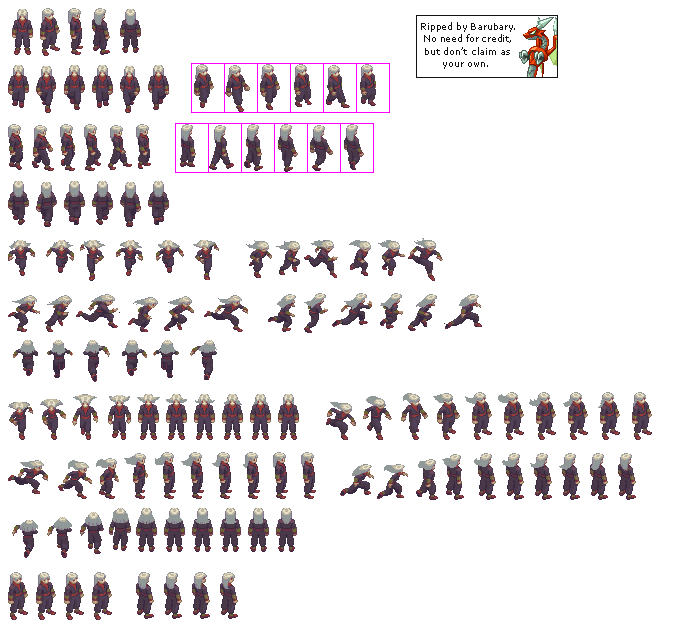
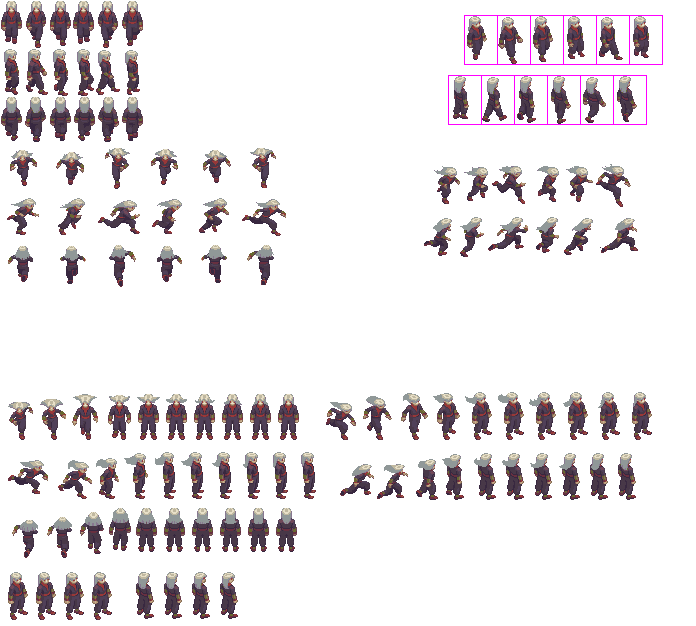
Move/Run

Changed region(s): [[0.0, 0.0, 0.9353, 0.607], [0.6034, 0.0, 0.9353, 0.2125]]

diff --git a/DesingPatternsGame/DesingPatternsGame/StrategyGame.cs b/DesingPatternsGame/DesingPatternsGame/StrategyGame.cs
@@ -100,12 +100,15 @@ namespace DesingPatternsGame
                 this.Exit();
 #endif
 
-            if (MoveStretegy.GetType() != typeof(WalkStrategy))
-                MoveStretegy = new WalkStrategy();
-
             if (Controller1.Buttons.B == ButtonState.Pressed)
             {
-                MoveStretegy = new RunStrategy();
+                if (MoveStretegy.GetType() != typeof(RunStrategy))
+                    MoveStretegy = new RunStrategy();
+            }
+            else
+            {
+                if (MoveStretegy.GetType() != typeof(WalkStrategy))
+                    MoveStretegy = new WalkStrategy();
             }
 
             spritePosition = MoveStretegy.Move(spritePosition, Controller1);
@@ -123,7 +126,9 @@ namespace DesingPatternsGame
 
             //
             spriteBatch.Begin(SpriteSortMode.BackToFront, BlendState.AlphaBlend);
-            spriteBatch.Draw(mainCharacter, spritePosition, new Rectangle(8, 0, 30, 60), Color.White);
+
+            MoveStretegy.Draw(gameTime, spriteBatch, mainCharacter, spritePosition);
+            
             spriteBatch.End();
 
             base.Draw(gameTime);

diff --git a/DesingPatternsGame.Strategy/RunStrategy.cs b/DesingPatternsGame.Strategy/RunStrategy.cs
@@ -1,4 +1,5 @@
 using Microsoft.Xna.Framework;
+using Microsoft.Xna.Framework.Graphics;
 using Microsoft.Xna.Framework.Input;
 using System;
 using System.Collections.Generic;
@@ -13,10 +14,23 @@ namespace DesingPatternsGame.Strategy
         {
             return spritePosition + 7 * new Vector2(controllerState.ThumbSticks.Left.X, -controllerState.ThumbSticks.Left.Y);
         }
-
-        public void Draw()
+        int frame = 0;
+        double delay = 250;
+        double elapsed = 0;
+        public void Draw(GameTime gameTime, SpriteBatch spriteBatch, Texture2D texture, Vector2 position)
         {
-            throw new NotImplementedException();
+            spriteBatch.Draw(texture, position, new Rectangle(48 * frame, 144, 48, 48), Color.White);
+
+            elapsed += gameTime.ElapsedGameTime.TotalMilliseconds;
+
+            if (elapsed > delay)
+            {
+                elapsed = 0;
+                ++frame;
+
+                if (frame >= 6)
+                    frame = 0;
+            }
         }
     }
 }

diff --git a/DesingPatternsGame.Strategy/WalkStrategy.cs b/DesingPatternsGame.Strategy/WalkStrategy.cs
@@ -1,4 +1,5 @@
 using Microsoft.Xna.Framework;
+using Microsoft.Xna.Framework.Graphics;
 using Microsoft.Xna.Framework.Input;
 using System;
 using System.Collections.Generic;
@@ -13,10 +14,24 @@ namespace DesingPatternsGame.Strategy
         {
             return spritePosition + 2 * new Vector2(controllerState.ThumbSticks.Left.X, -controllerState.ThumbSticks.Left.Y);
         }
+        int frame = 0;
+        double delay = 250;
+        double elapsed = 0;
 
-        public void Draw()
+        public void Draw(GameTime gameTime, SpriteBatch spriteBatch, Texture2D texture, Vector2 position)
         {
-            throw new NotImplementedException();
+            spriteBatch.Draw(texture, position, new Rectangle(24 * frame, 0, 24, 48), Color.White);
+
+            elapsed += gameTime.ElapsedGameTime.TotalMilliseconds;
+
+            if (elapsed > delay)
+            {
+                elapsed = 0;
+                ++frame;
+
+                if (frame >= 6)
+                    frame = 0;
+            }
         }
     }
 }

diff --git a/DesingPatternsGame.Strategy/IMoveStrategy.cs b/DesingPatternsGame.Strategy/IMoveStrategy.cs
@@ -15,6 +15,6 @@ namespace DesingPatternsGame.Strategy
     {
         Vector2 Move(Vector2 spritePosition, GamePadState controllerState);
 
-        void Draw();
+        void Draw(GameTime gameTime, SpriteBatch spriteBatch, Texture2D texture, Vector2 position);
     }
 }
